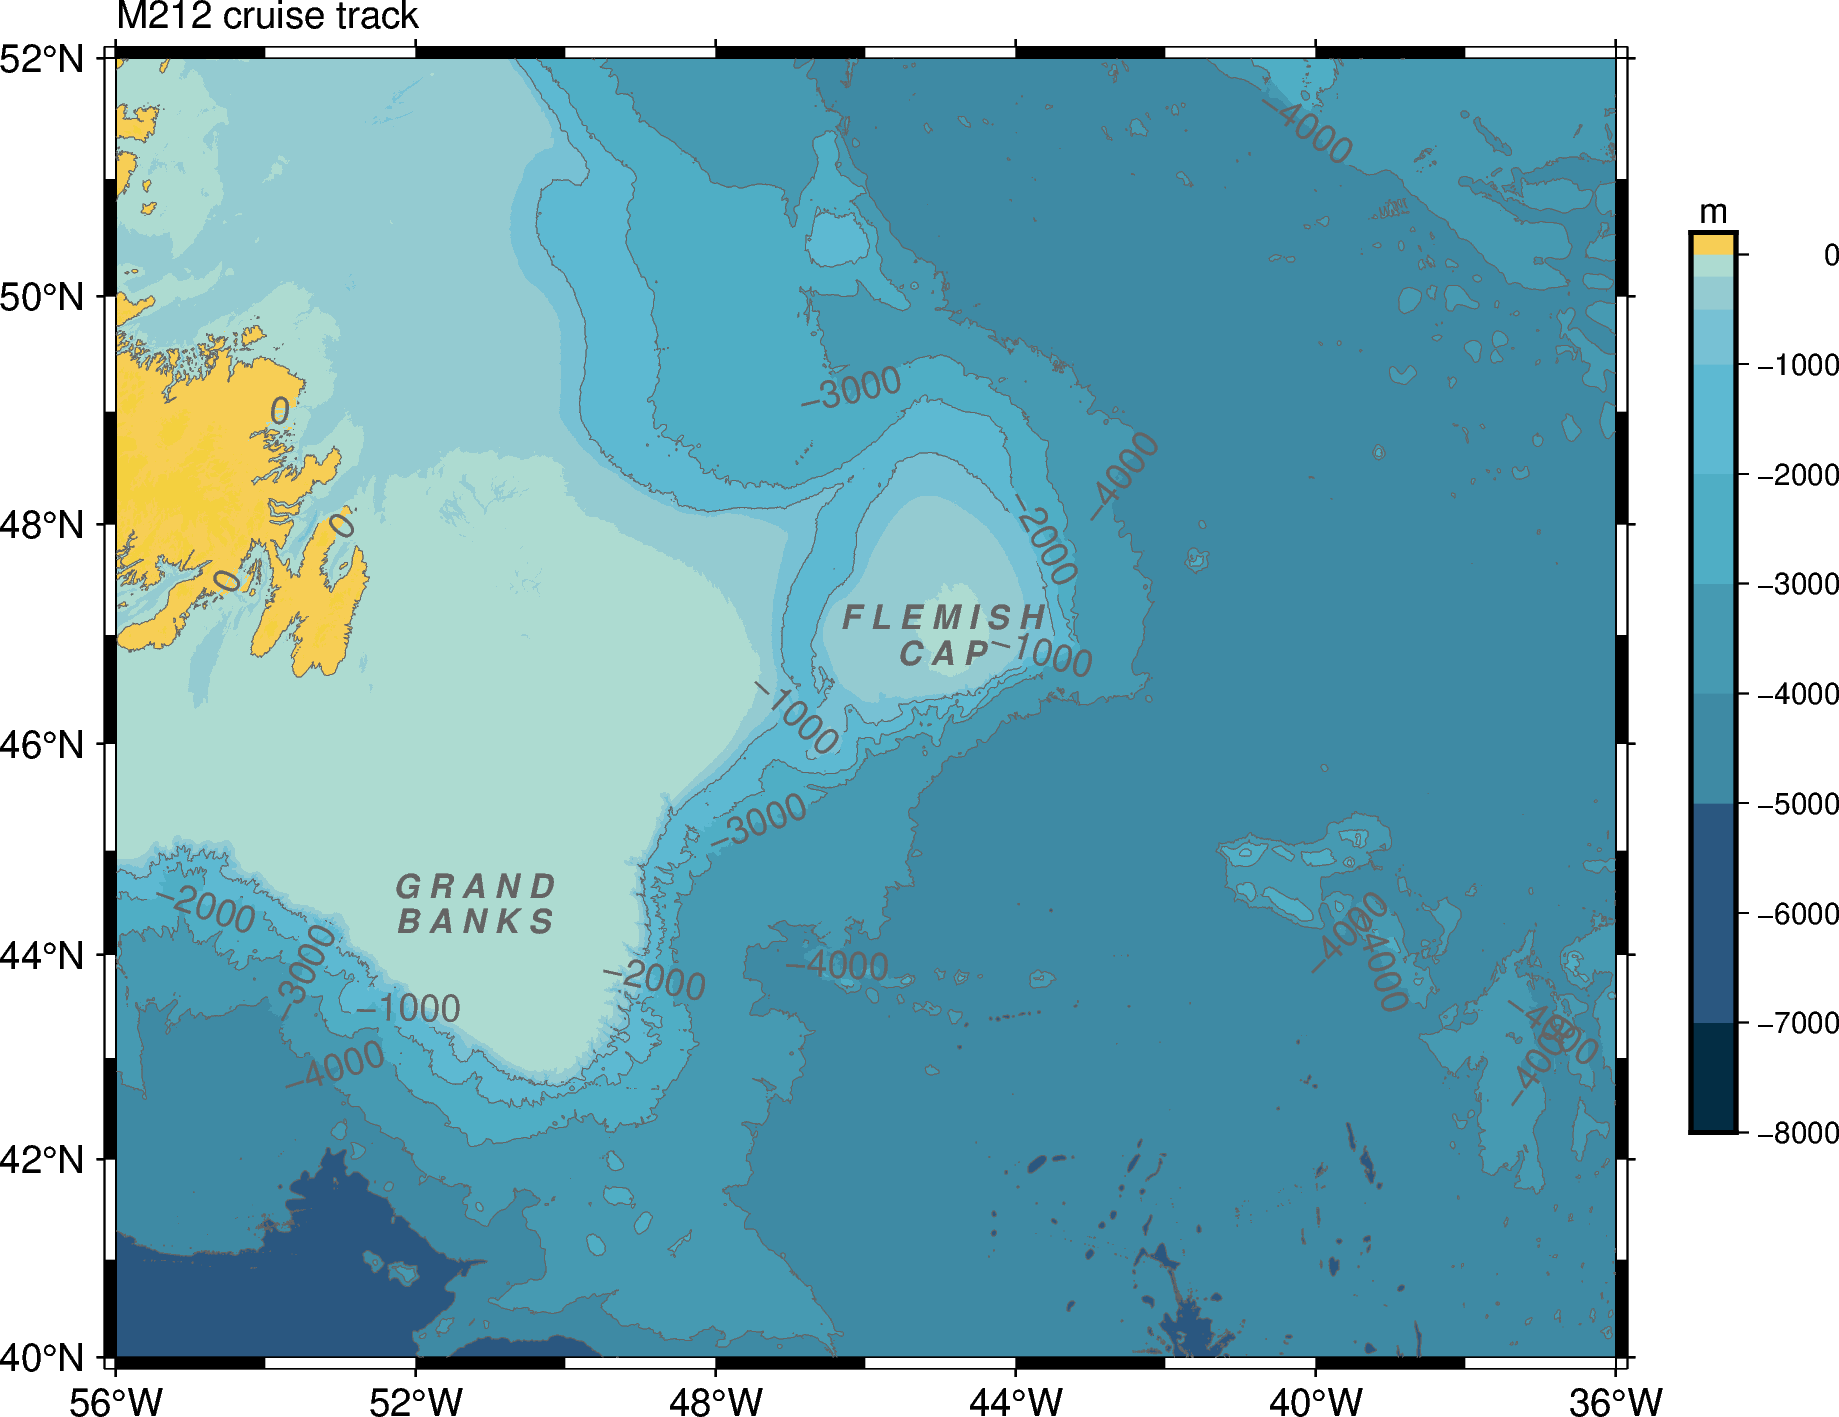
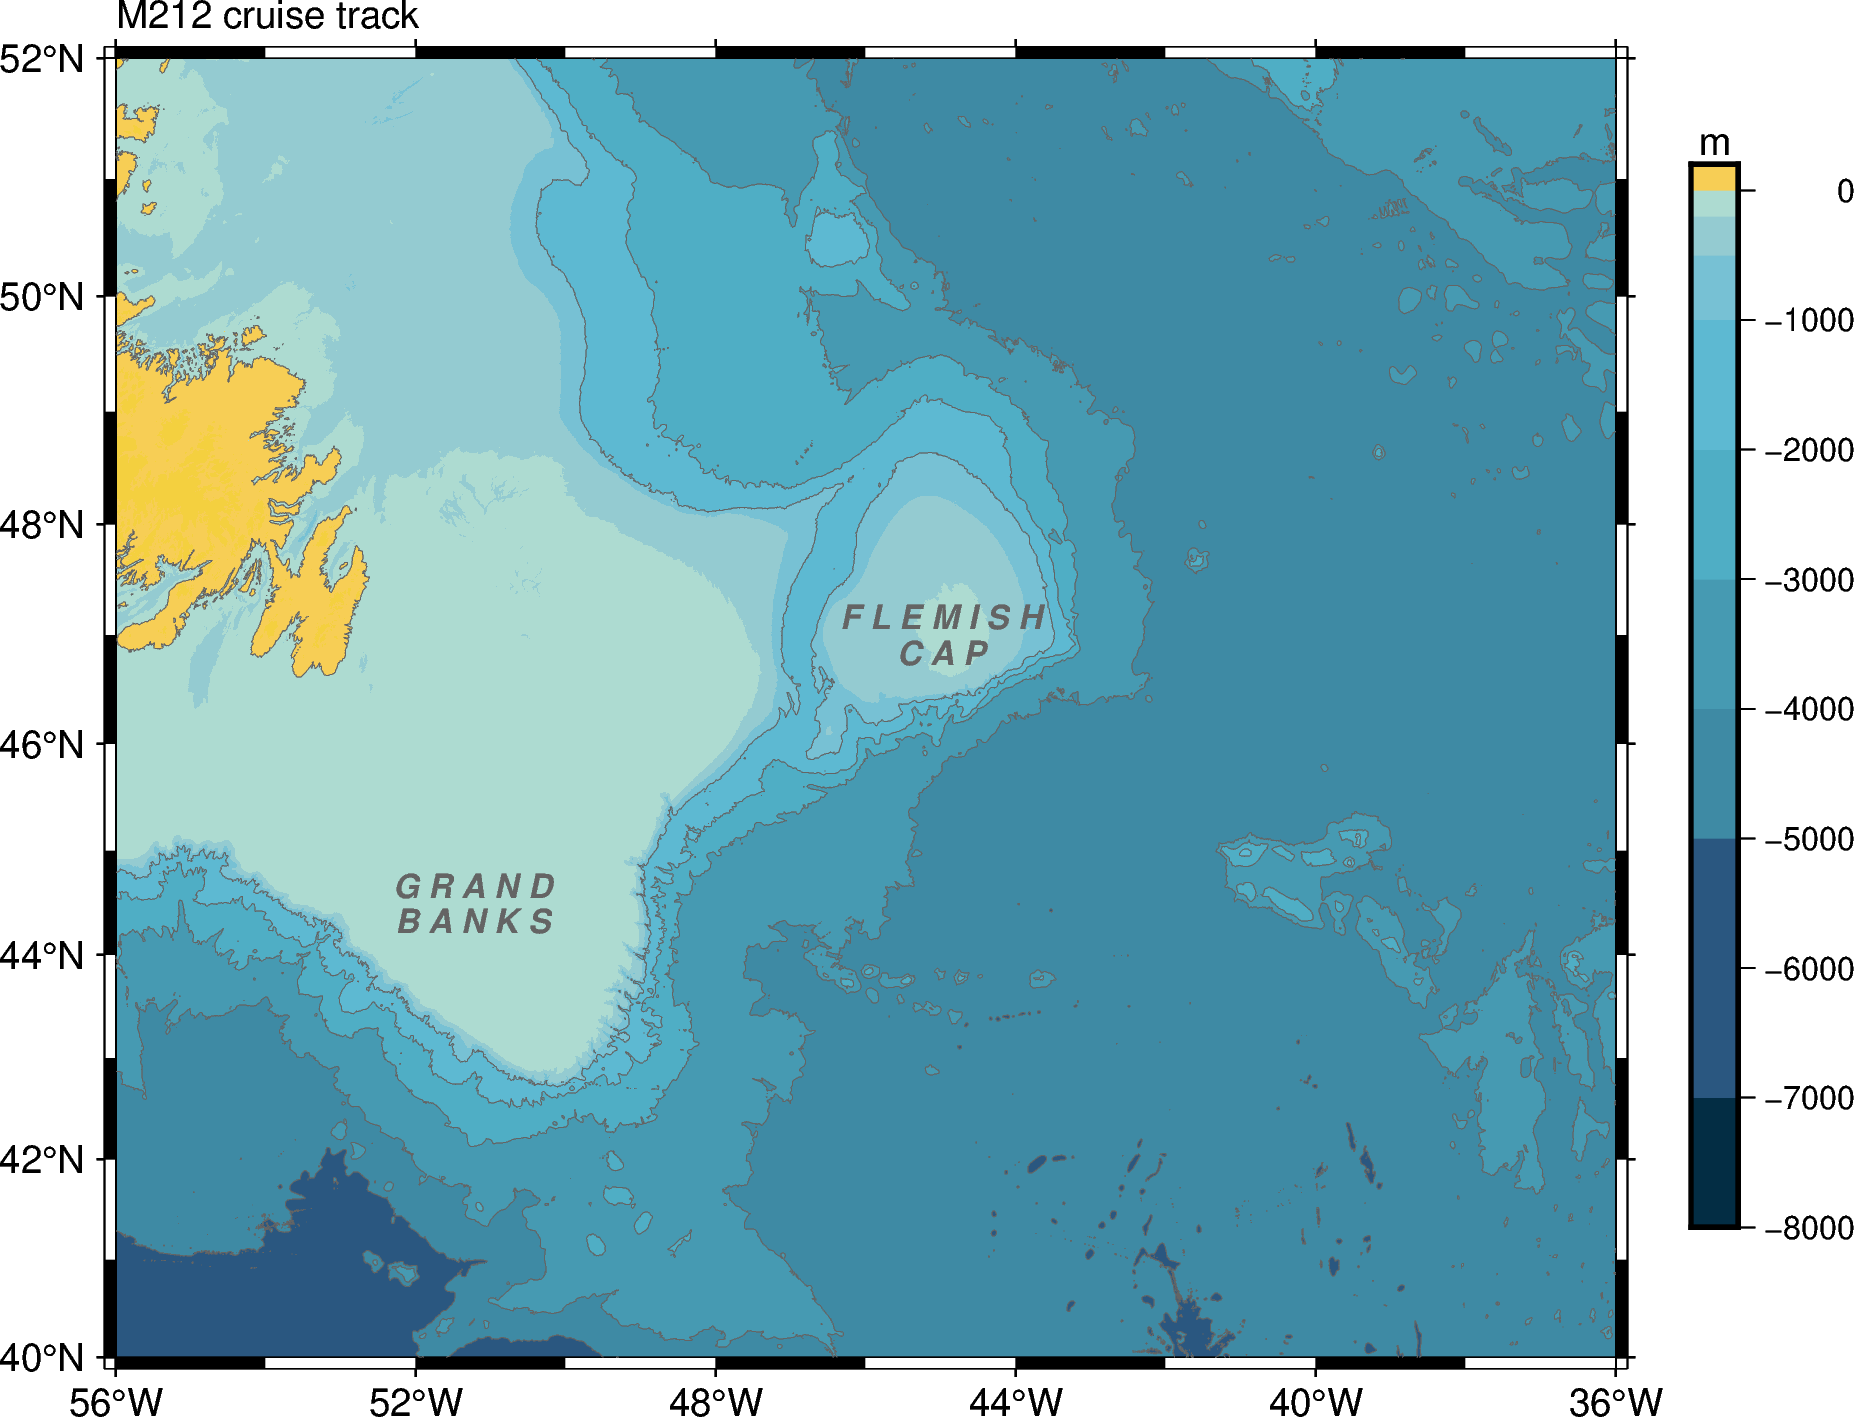
fix: missing import pygmt line

diff --git a/oceanvis_py/plots/maps.py b/oceanvis_py/plots/maps.py
@@ -181,7 +181,7 @@ def plot_bathymetry_map(
             fig.grdcontour(
                 grid=contour_grid,
                 levels=contour_interval if contour_interval else 1000,
-                annotation=contour_interval if contour_interval else 1000,
+                annotation="n",
                 pen="faint,100/100/100",
             )
         except Exception as e:
@@ -203,8 +203,13 @@ def plot_bathymetry_map(
 
     # Add colorbar
     # Replicates: gmt colorbar -Cantfiles/topo_negative.cpt -Dx5.25i/.75i+w3i/0.15i+v -Bx1000 -By+l"m"
+    ## UPDATE this to use the position x given by the projection width,
+    # and offset by 0.25i
+    # Compute the y-height (after w) based on the
+    # projection type and width?
     fig.colorbar(
-        cmap=cpt_file, position="x5.25i/0.75i+w3i/0.15i+v", frame=["x1000", "y+lm"]
+    #    cmap=cpt_file, position="x5.25i/0.75i+w3i/0.15i+v", frame=["x1000", "y+lm"]
+        cmap=cpt_file, position="n1.05/.1+w9/0.4+v", frame=["x1000", "y+lm"]
     )
 
     # Save the figure if not returning for further modification

diff --git a/tests/test_maps.py b/tests/test_maps.py
@@ -20,7 +20,7 @@ def _check_pygmt_test_availability():
         _pygmt_spec = importlib.util.find_spec("pygmt")
         if _pygmt_spec is not None:
             # Try to actually import to catch GMT library issues
-
+            import pygmt
             return True
     except Exception:
         pass
